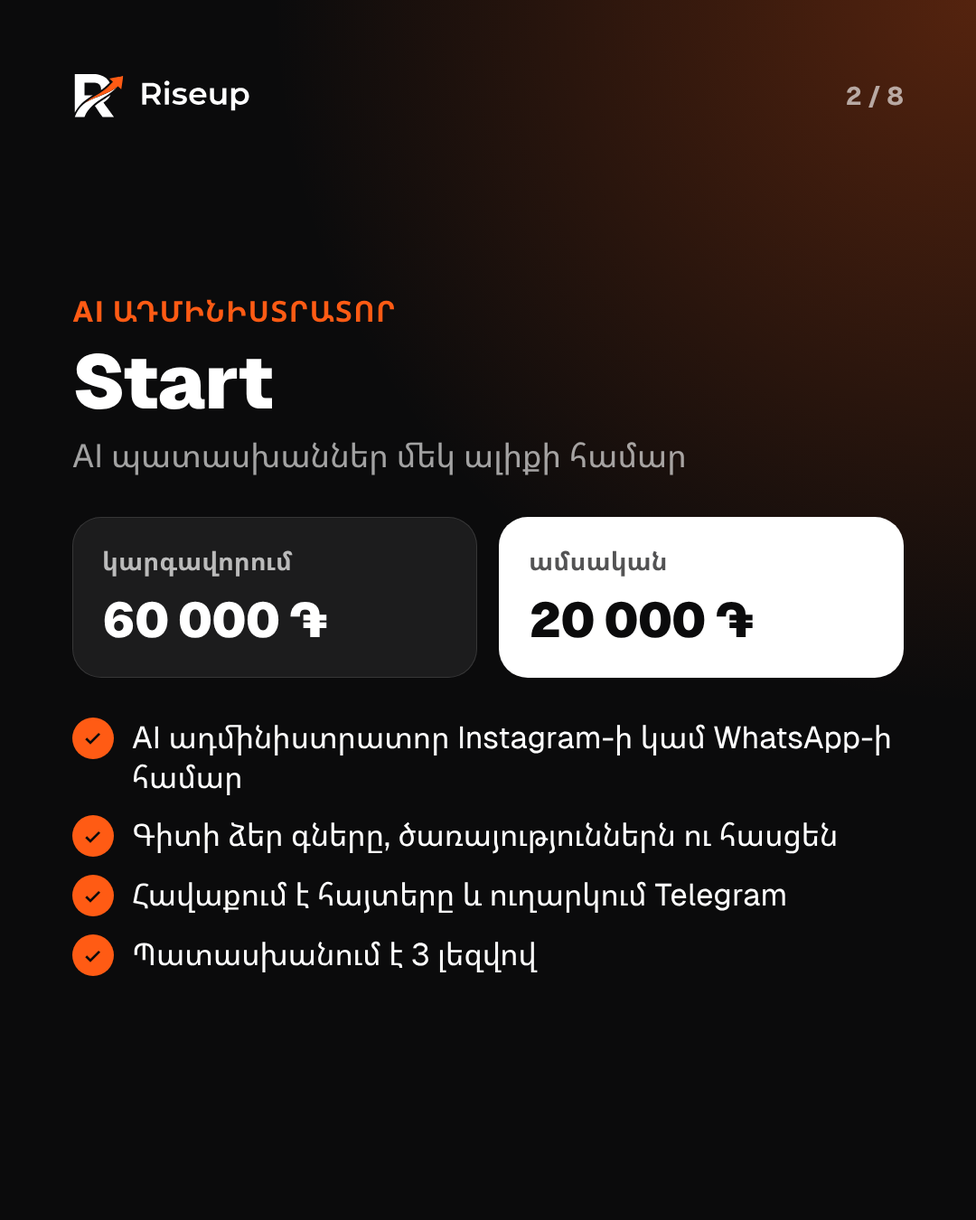
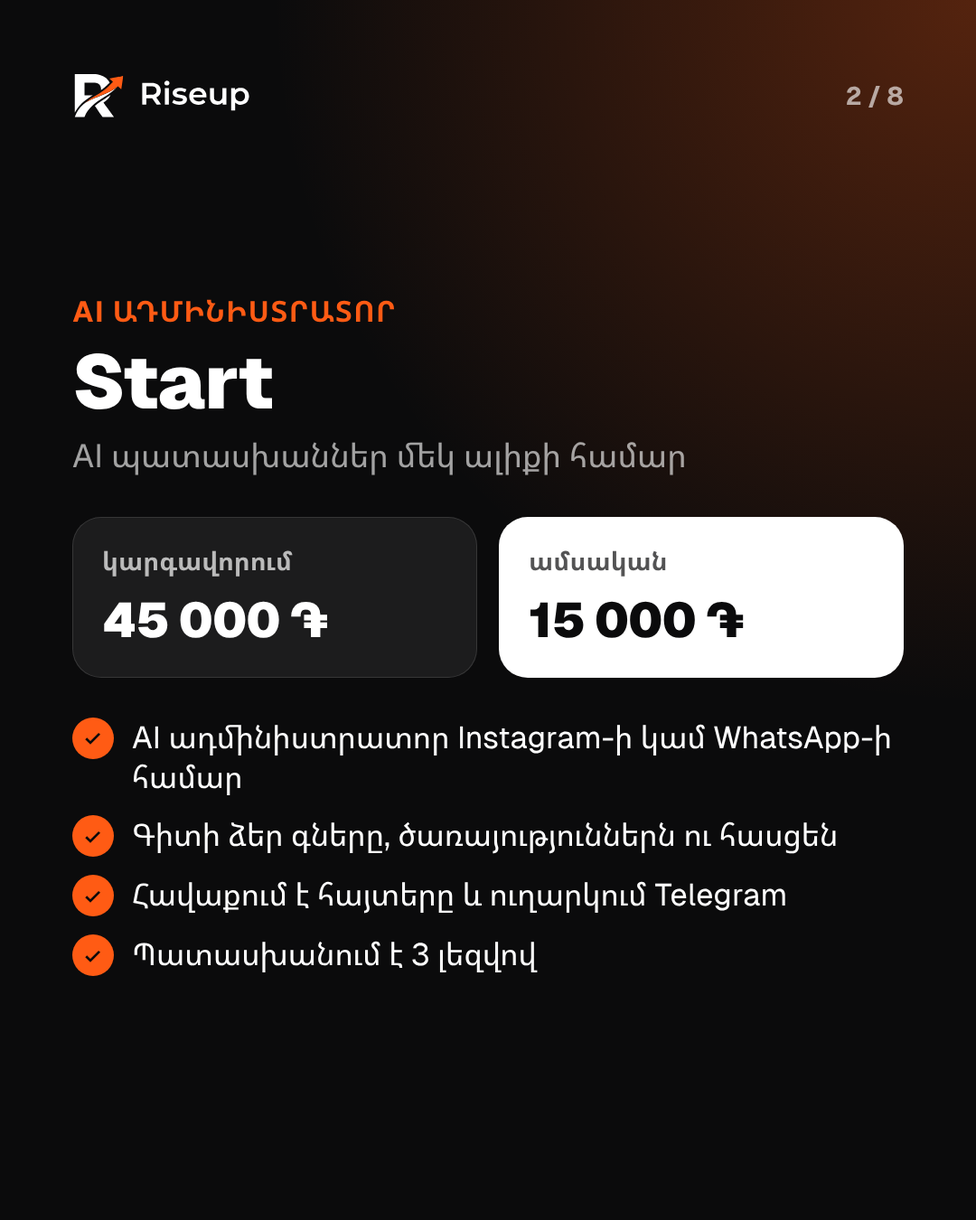
Lower prices, add online shop, premium 3D site and AI video plans
Also refresh highlight stories and the price carousel with the new
prices, and update the 60-day plan (outreach volume, surgery dates).

Claude-Session: https://claude.ai/code/session_015v1KKk4YzmLy5J99LSMaLs

Changed region(s): [[0.55, 0.4667, 0.7639, 0.5289], [0.0917, 0.4978, 0.275, 0.5289]]

diff --git a/reels/src/hl/Stills.tsx b/reels/src/hl/Stills.tsx
@@ -138,12 +138,12 @@ type Slide =
 
 export const SLIDES: Slide[] = [
   { kind: "cover" },
-  { kind: "plan", group: "AI ադմինիստրատոր", name: "Start", for: "AI պատասխաններ մեկ ալիքի համար", setup: "60 000 ֏", monthly: "20 000 ֏", features: ["AI ադմինիստրատոր Instagram-ի կամ WhatsApp-ի համար", "Գիտի ձեր գները, ծառայություններն ու հասցեն", "Հավաքում է հայտերը և ուղարկում Telegram", "Պատասխանում է 3 լեզվով"] },
-  { kind: "plan", group: "AI ադմինիստրատոր", name: "Pro", for: "Պատասխաններ + գրանցում, բոլոր ալիքները", setup: "120 000 ֏", monthly: "35 000 ֏", popular: true, features: ["Start-ի ամեն ինչը՝ Instagram-ի, WhatsApp-ի և Telegram-ի համար", "Առցանց գրանցման օրացույց", "Հիշեցումներ այցից առաջ", "Կարծիքի խնդրանքներ և օրվա հաշվետվություն"] },
-  { kind: "plan", group: "Պատվերներ", name: "Instagram խանութ", for: "Instagram-ով վաճառող խանութների համար", setup: "90 000 ֏-ից", monthly: "25 000 ֏", features: ["AI պատասխաններ ապրանքների և մնացորդի մասին", "Պատվերների ընդունում չատում", "Պատվերների վահանակ՝ կարգավիճակներով", "Առաքիչ Telegram-ում և օրվա հաշվետվություն"] },
-  { kind: "plan", group: "Անշարժ գույք", name: "Գործակալություն", for: "Գործակալությունների և կառուցապատողների համար", setup: "180 000 ֏-ից", monthly: "35 000 ֏", features: ["Բոլոր հայտերը մեկ ցուցակում", "AI-ի առաջին պատասխան գնորդներին", "Գնորդների և գույքի համադրում", "Հետզանգի հիշեցումներ"] },
-  { kind: "plan", group: "Մարքեթինգ", name: "Google և կարծիքներ", for: "Լինել տեսանելի քարտեզում", setup: "0 ֏", monthly: "25 000 ֏", features: ["Google Maps պրոֆիլի կարգավորում և խնամք", "Ավտոմատ կարծիքի խնդրանքներ", "Պատասխան յուրաքանչյուր կարծիքի", "Google + Instagram փաթեթ՝ 60 000 ֏/ամիս"] },
-  { kind: "plan", group: "Կայքեր", name: "Մեկ էջանոց կայք", for: "Արագ մեկնարկ առցանց", setup: "120 000 ֏-ից", monthly: "10 000 ֏", features: ["Մեկ էջ 3 լեզվով", "Կոնտակտային ձև և WhatsApp կոճակ", "Հոսթինգի և դոմենի կարգավորում", "Ընկերության կայք՝ 210 000 ֏-ից + 18 000 ֏/ամիս"] },
+  { kind: "plan", group: "AI ադմինիստրատոր", name: "Start", for: "AI պատասխաններ մեկ ալիքի համար", setup: "45 000 ֏", monthly: "15 000 ֏", features: ["AI ադմինիստրատոր Instagram-ի կամ WhatsApp-ի համար", "Գիտի ձեր գները, ծառայություններն ու հասցեն", "Հավաքում է հայտերը և ուղարկում Telegram", "Պատասխանում է 3 լեզվով"] },
+  { kind: "plan", group: "AI ադմինիստրատոր", name: "Pro", for: "Պատասխաններ + գրանցում, բոլոր ալիքները", setup: "90 000 ֏", monthly: "25 000 ֏", popular: true, features: ["Start-ի ամեն ինչը՝ Instagram-ի, WhatsApp-ի և Telegram-ի համար", "Առցանց գրանցման օրացույց", "Հիշեցումներ այցից առաջ", "Կարծիքի խնդրանքներ և օրվա հաշվետվություն"] },
+  { kind: "plan", group: "Պատվերներ", name: "Instagram խանութ", for: "Instagram-ով վաճառող խանութների համար", setup: "70 000 ֏-ից", monthly: "20 000 ֏", features: ["AI պատասխաններ ապրանքների և մնացորդի մասին", "Պատվերների ընդունում չատում", "Պատվերների վահանակ՝ կարգավիճակներով", "Առաքիչ Telegram-ում և օրվա հաշվետվություն"] },
+  { kind: "plan", group: "Անշարժ գույք", name: "Գործակալություն", for: "Գործակալությունների և կառուցապատողների համար", setup: "140 000 ֏-ից", monthly: "25 000 ֏", features: ["Բոլոր հայտերը մեկ ցուցակում", "AI-ի առաջին պատասխան գնորդներին", "Գնորդների և գույքի համադրում", "Հետզանգի հիշեցումներ"] },
+  { kind: "plan", group: "Մարքեթինգ", name: "Google և կարծիքներ", for: "Լինել տեսանելի քարտեզում", setup: "0 ֏", monthly: "20 000 ֏", features: ["Google Maps պրոֆիլի կարգավորում և խնամք", "Ավտոմատ կարծիքի խնդրանքներ", "Պատասխան յուրաքանչյուր կարծիքի", "Google + Instagram փաթեթ՝ 45 000 ֏/ամիս"] },
+  { kind: "plan", group: "Կայքեր", name: "Մեկ էջանոց կայք", for: "Արագ մեկնարկ առցանց", setup: "80 000 ֏-ից", monthly: "8 000 ֏", features: ["Մեկ էջ 3 լեզվով", "Կոնտակտային ձև և WhatsApp կոճակ", "Հոսթինգի և դոմենի կարգավորում", "Ընկերության կայք՝ 150 000 ֏-ից + 12 000 ֏/ամիս"] },
   { kind: "terms" },
 ];
 

diff --git a/reels/src/hl/data.ts b/reels/src/hl/data.ts
@@ -75,7 +75,7 @@ export const HIGHLIGHTS: Highlight[] = [
         body: "Պատասխանում է 24/7, գրանցում է, հիշեցնում այցի մասին։",
         ru: "AI-администратор 24/7",
         bg: "salon",
-        price: "60 000 ֏-ից",
+        price: "45 000 ֏-ից",
         cta: true,
         visual: {
           kind: "chat",
@@ -87,10 +87,10 @@ export const HIGHLIGHTS: Highlight[] = [
           ],
         },
       },
-      { id: "services-2", title: "Պատվերներ", body: "Instagram խանութի պատվերները՝ մեկ վահանակում։", ru: "Заказы из Instagram в одной панели", price: "90 000 ֏-ից", cta: true, visual: { kind: "orders" } },
-      { id: "services-3", title: "Անշարժ գույք", body: "Բոլոր հայտերը մեկ տեղում, ոչ մի կորած գնորդ։", ru: "Все заявки в одном месте", price: "180 000 ֏-ից", cta: true, visual: { kind: "leads" } },
-      { id: "services-4", title: "Մարքեթինգ", body: "Google Maps, կարծիքներ, Instagram կոնտենտ։", ru: "Google Maps, отзывы, Instagram", price: "25 000 ֏/ամիս-ից", cta: true, visual: { kind: "stars" } },
-      { id: "services-5", title: "Կայքեր", body: "Արագ կայք 3 լեզվով։", ru: "Сайты на 3 языках", price: "120 000 ֏-ից", cta: true, visual: { kind: "site" } },
+      { id: "services-2", title: "Պատվերներ", body: "Instagram խանութի պատվերները՝ մեկ վահանակում։", ru: "Заказы из Instagram в одной панели", price: "70 000 ֏-ից", cta: true, visual: { kind: "orders" } },
+      { id: "services-3", title: "Անշարժ գույք", body: "Բոլոր հայտերը մեկ տեղում, ոչ մի կորած գնորդ։", ru: "Все заявки в одном месте", price: "140 000 ֏-ից", cta: true, visual: { kind: "leads" } },
+      { id: "services-4", title: "Մարքեթինգ", body: "Google Maps, կարծիքներ, Instagram կոնտենտ։", ru: "Google Maps, отзывы, Instagram", price: "20 000 ֏/ամիս-ից", cta: true, visual: { kind: "stars" } },
+      { id: "services-5", title: "Կայքեր", body: "Արագ կայք 3 լեզվով։", ru: "Сайты на 3 языках", price: "80 000 ֏-ից", cta: true, visual: { kind: "site" } },
     ],
   },
   {
@@ -105,8 +105,8 @@ export const HIGHLIGHTS: Highlight[] = [
         visual: {
           kind: "prices",
           cards: [
-            { name: "Start · մեկ ալիք", setup: "60 000 ֏", monthly: "20 000 ֏ / ամիս" },
-            { name: "Pro · բոլոր ալիքները + գրանցում", setup: "120 000 ֏", monthly: "35 000 ֏ / ամիս", tag: "Ամենաշատ ընտրվողը" },
+            { name: "Start · մեկ ալիք", setup: "45 000 ֏", monthly: "15 000 ֏ / ամիս" },
+            { name: "Pro · բոլոր ալիքները + գրանցում", setup: "90 000 ֏", monthly: "25 000 ֏ / ամիս", tag: "Ամենաշատ ընտրվողը" },
           ],
         },
       },
@@ -117,8 +117,8 @@ export const HIGHLIGHTS: Highlight[] = [
         visual: {
           kind: "prices",
           cards: [
-            { name: "Պատվերներ", setup: "90 000 ֏-ից", monthly: "25 000 ֏ / ամիս" },
-            { name: "Անշարժ գույք", setup: "180 000 ֏-ից", monthly: "35 000 ֏ / ամիս" },
+            { name: "Պատվերներ", setup: "70 000 ֏-ից", monthly: "20 000 ֏ / ամիս" },
+            { name: "Անշարժ գույք", setup: "140 000 ֏-ից", monthly: "25 000 ֏ / ամիս" },
           ],
         },
       },
@@ -130,8 +130,8 @@ export const HIGHLIGHTS: Highlight[] = [
         visual: {
           kind: "prices",
           cards: [
-            { name: "Google և կարծիքներ", setup: "25 000 ֏ / ամիս" },
-            { name: "Google + Instagram", setup: "60 000 ֏ / ամիս" },
+            { name: "Google և կարծիքներ", setup: "20 000 ֏ / ամիս" },
+            { name: "Google + Instagram", setup: "45 000 ֏ / ամիս" },
           ],
         },
       },
@@ -142,8 +142,8 @@ export const HIGHLIGHTS: Highlight[] = [
         visual: {
           kind: "prices",
           cards: [
-            { name: "Մեկ էջանոց կայք", setup: "120 000 ֏-ից", monthly: "10 000 ֏ / ամիս" },
-            { name: "Ընկերության կայք", setup: "210 000 ֏-ից", monthly: "18 000 ֏ / ամիս" },
+            { name: "Մեկ էջանոց կայք", setup: "80 000 ֏-ից", monthly: "8 000 ֏ / ամիս" },
+            { name: "Ընկերության կայք", setup: "150 000 ֏-ից", monthly: "12 000 ֏ / ամիս" },
           ],
         },
       },

diff --git a/src/config/pricing.ts b/src/config/pricing.ts
@@ -7,7 +7,8 @@ import type { CapabilityId } from "./navigation";
  * lists are translated in src/locales/*.json → pricing.plans.<id>.
  *
  *   setup    one-time payment for building and launching (0 = none)
- *   monthly  monthly fee for hosting, AI usage, support and changes (0 = none)
+ *   monthly  monthly fee for hosting, AI usage, support and changes (0 = none;
+ *            with setup > 0 this is a one-time job, e.g. a video)
  *   from     true shows "from" before the price (final price depends on scope)
  *   popular  highlights the plan as the recommended one
  */
@@ -27,21 +28,27 @@ export const planOrder = [
   "real-estate",
   "marketing-local",
   "marketing-full",
+  "ai-video",
   "landing",
   "website",
+  "shop",
+  "premium-3d",
 ] as const;
 
 export type PlanId = (typeof planOrder)[number];
 
 export const plans: Record<PlanId, Plan> = {
-  "admin-start": { id: "admin-start", product: "ai-admin", setup: 60_000, monthly: 20_000 },
-  "admin-pro": { id: "admin-pro", product: "ai-admin", setup: 120_000, monthly: 35_000, popular: true },
-  orders: { id: "orders", product: "orders", setup: 90_000, monthly: 25_000, from: true },
-  "real-estate": { id: "real-estate", product: "real-estate", setup: 180_000, monthly: 35_000, from: true },
-  "marketing-local": { id: "marketing-local", product: "marketing", setup: 0, monthly: 25_000 },
-  "marketing-full": { id: "marketing-full", product: "marketing", setup: 0, monthly: 60_000 },
-  landing: { id: "landing", product: "websites", setup: 120_000, monthly: 10_000, from: true },
-  website: { id: "website", product: "websites", setup: 210_000, monthly: 18_000, from: true },
+  "admin-start": { id: "admin-start", product: "ai-admin", setup: 45_000, monthly: 15_000 },
+  "admin-pro": { id: "admin-pro", product: "ai-admin", setup: 90_000, monthly: 25_000, popular: true },
+  orders: { id: "orders", product: "orders", setup: 70_000, monthly: 20_000, from: true },
+  "real-estate": { id: "real-estate", product: "real-estate", setup: 140_000, monthly: 25_000, from: true },
+  "marketing-local": { id: "marketing-local", product: "marketing", setup: 0, monthly: 20_000 },
+  "marketing-full": { id: "marketing-full", product: "marketing", setup: 0, monthly: 45_000 },
+  "ai-video": { id: "ai-video", product: "marketing", setup: 25_000, monthly: 0, from: true },
+  landing: { id: "landing", product: "websites", setup: 80_000, monthly: 8_000, from: true },
+  website: { id: "website", product: "websites", setup: 150_000, monthly: 12_000, from: true },
+  shop: { id: "shop", product: "websites", setup: 150_000, monthly: 12_000, from: true },
+  "premium-3d": { id: "premium-3d", product: "websites", setup: 250_000, monthly: 15_000, from: true },
 };
 
 export function plansFor(product: CapabilityId): Plan[] {

diff --git a/src/components/sections/PricingPlans.tsx b/src/components/sections/PricingPlans.tsx
@@ -34,7 +34,7 @@ export function PlanCard({ plan, locale, dict }: { plan: Plan; locale: Locale; d
           <>
             <p className="text-heading leading-none font-medium tabular-nums">{price(plan.setup)}</p>
             <p className={cn("mt-2 text-small", plan.popular ? "text-bg/70" : "text-fg-mute")}>
-              {t.setup} · + {formatAmd(plan.monthly)} {t.perMonth}
+              {plan.monthly > 0 ? `${t.setup} · + ${formatAmd(plan.monthly)} ${t.perMonth}` : t.oneTime}
             </p>
           </>
         ) : (

diff --git a/docs/plan-60-days.md b/docs/plan-60-days.md
@@ -67,32 +67,38 @@
 4. **AI գովազդային տեսանյութեր.** Ռեալիստիկ գովազդներ AI-ով։
 5. **Բիզնես ավտոմատացումներ (n8n).** Հաշվետվություններ, Telegram ծանուցումներ, տվյալների փոխանցում, անշարժ գույքի հայտարարությունների ավտոմատ թարմացում։
 
-### 2.3 Գներ
+### 2.3 Գներ (թարմացված, նոյեմբերի 8)
 
-Սկզբում ցածր գներ՝ կեյսերի համար։ Առաջին 3 հաճախորդից հետո բարձրացնում ենք 30–50%-ով։
+Գները իջեցրել ենք։ Կայքում դրանք արդեն փոխված են (`src/config/pricing.ts`)։ Առաջին 3–5 հաճախորդից հետո կբարձրացնենք 30%-ով։
 
 **Տեղական (֏)**
 
-| Ծառայություն | Մեկնարկային գին | 3 հաճախորդից հետո |
+| Ծառայություն | Կարգավորում | Ամսական |
 |---|---|---|
-| Ռեստորանի պատվերների համակարգ (կայք + dashboard + տպիչ) | 250 000 + 20 000/ամիս | 400 000+ |
-| Առցանց խանութ (կատալոգ, զամբյուղ, պատվերների վահանակ) | 220 000 + 15 000/ամիս | 350 000+ |
-| Պրեմիում 3D scroll կայք | 350 000-ից | 550 000+ |
-| AI գովազդային տեսանյութ (15–30 վրկ) | 70 000 / 1 հատ, 180 000 / 3 հատ | 120 000 / 1 հատ |
-| Բիզնես ավտոմատացում (n8n) | 80 000–250 000 | ըստ բարդության |
-| AI ադմինիստրատոր, landing, մարքեթինգ | ինչպես կայքում | — |
+| AI ադմինիստրատոր Start | 45 000 | 15 000 |
+| AI ադմինիստրատոր Pro | 90 000 | 25 000 |
+| Պատվերների համակարգ (խանութ / ռեստորան, ինչպես hosdog.am) | 70 000-ից | 20 000 |
+| Անշարժ գույք | 140 000-ից | 25 000 |
+| Google և կարծիքներ | — | 20 000 |
+| Google + Instagram | — | 45 000 |
+| **AI գովազդային տեսանյութ** | **25 000-ից / 3 հատ՝ 60 000** | — |
+| Մեկ էջանոց կայք | 80 000-ից | 8 000 |
+| Ընկերության կայք | 150 000-ից | 12 000 |
+| Առցանց խանութ | 150 000-ից | 12 000 |
+| Պրեմիում 3D կայք | 250 000-ից | 15 000 |
+| Ավտոմատացում (n8n) | 40 000–150 000 | ըստ պայմանավորվածության |
 
-**Միջազգային ($, Upwork և այլն)**
+**Միջազգային ($)**
 
-| Ծառայություն | Առաջին 3–5 աշխատանքը (կարծիքների համար) | Հետո |
+| Ծառայություն | Առաջին 3–5 աշխատանքը | Հետո |
 |---|---|---|
-| n8n / Make ավտոմատացում | $150–400 | $500–2 000 |
-| AI ադմինիստրատոր (ManyChat + n8n + AI) | $400 + $59/ամիս | $900 + $99/ամիս |
-| Landing page | $300 | $600–1 000 |
-| 3D scroll կայք | $900 | $1 500–3 500 |
-| AI գովազդային տեսանյութ | $120 | $250–500 |
+| n8n / Make ավտոմատացում | $100–300 | $400–1 500 |
+| AI ադմինիստրատոր | $300 + $49/ամիս | $700 + $89/ամիս |
+| Landing page | $250 | $500–900 |
+| 3D scroll կայք | $600 | $1 200–3 000 |
+| AI գովազդային տեսանյութ | $60–80 | $150–400 |
 
-> **Կարևոր AI տեսանյութերի համար.** Higgsfield-ի փորձնական շրջանն ավարտվում է նոյեմբերի 10-ին, և ավտոմատ երկարացումն անջատված է։ Վճարովի փաթեթ գնեք միայն այն ժամանակ, երբ հաճախորդն արդեն վճարել է, և կրեդիտների ծախսը ներառեք գնի մեջ։ Մեկ 5 վայրկյանանոց 720p կադրն արժե 35 կրեդիտ, իսկ 20 վայրկյանանոց գովազդի համար պետք է 4–6 կադր և փորձեր։
+> **AI տեսանյութերի ծախսը.** Մինչև Higgsfield-ի փաթեթ գնելը հաշվեք 1 կրեդիտի գինը։ Մեկ 15 վայրկյանանոց գովազդը փորձերով ծախսում է մոտ 120–150 կրեդիտ 720p-ով, և 25 000 ֏-ը պետք է ծածկի այդ ծախսը։ Փաթեթը գնեք միայն առաջին վճարից հետո։
 
 ## 3. Թվերը. ինչպես հասնել $10 000-ի
 
@@ -116,7 +122,20 @@
 
 300–400 զանգը առանց արդյունքի ցույց է տալիս, որ ձայնով «սառը» առաջարկը չի աշխատում։ Նոր մոտեցումը **«ցույց տուր, հետո առաջարկիր»** է.
 
-### 4.1 «Արդեն պատրաստել ենք» մեթոդը (հիմնականը)
+### 4.0 Ծավալը. ավելի ագրեսիվ (թարմացված)
+
+Ամեն աշխատանքային օր **40+ շփում** 3 մակարդակով.
+
+| Մակարդակ | Ինչ | Քանակ/օր | Ով |
+|---|---|---|---|
+| 1. Անհատական DM | Կարճ հաղորդագրություն բիզնեսի անունով և մեկ կոնկրետ դիտարկումով («տեսա, որ պատվերներն ընդունում եք Direct-ով...») + 15 վրկ տեսանյութ մեր դեմոյից | 25 | Կինը |
+| 2. Զանգ | Նրանց, ովքեր կարդացել են DM-ը, + Google Maps-ի ցուցակից | 15 | Դուք |
+| 3. Անհատական դեմո | Միայն նրանց, ովքեր պատասխանել են կամ ասել «հետաքրքիր է» | 2–3 | Կինը |
+| 4. Այց | Շաբաթը 2 օր՝ 1 թաղամաս, 10–15 սրճարան/սրահ/խանութ, hosdog.am-ը հեռախոսով ցույց տալով | 10–15 | Դուք |
+
+Ամսական սա 800+ շփում է։ 2–3% փոխարկման դեպքում՝ 15–25 հաճախորդ։
+
+### 4.1 «Արդեն պատրաստել ենք» մեթոդը (տաք հաճախորդների համար)
 1. Ամեն օր ընտրեք **5 բիզնես** Instagram-ից կամ Google Maps-ից։ Նախընտրելի են նրանք, ովքեր չունեն կայք, դանդաղ են պատասխանում կամ պատվերներն ընդունում են Direct-ով։
 2. Կինը vibecoding-ով 1–2 ժամում պատրաստում է **դեմո կայք հենց այդ բիզնեսի համար**՝ իրենց լուսանկարներով, մենյուով և գներով։
 3. Ուղարկեք Direct-ով կամ WhatsApp-ով 30 վայրկյանանոց էկրանի տեսագրություն՝ ձեր ձայնով.
@@ -303,7 +322,10 @@
 
 ## 11. Ինչ է պետք ձեզնից
 
-1. Վիրահատությունների մոտավոր ամսաթվերը, որ դրանց շուրջ ծանրաբեռնվածությունը թեթևացնենք։
+1. ~~Վիրահատությունների ամսաթվերը~~. Աչքերի տեսողության շտկումը՝ ~2 շաբաթից (~նոյեմբերի 22), աճուկային ճողվածքը՝ ~1 ամսից (~դեկտեմբերի 8)։ **Պլանի ճշգրտում.**
+   - Ամենաինտենսիվ վաճառքը (այցեր, զանգեր) անել մինչև նոյեմբերի 22-ը։
+   - Ամեն վիրահատությունից առաջ նախօրոք պատրաստել 7–10 reel։
+   - Վերականգնման օրերին կինը վարում է DM-ները և Upwork-ը, դուք կատարում եք միայն ձեր բժշկի թույլատրած թեթև աշխատանք։
 2. Bistro-ի, անշարժ գույքի և ավտոմատացման նախագծերի հղումներ, սքրինշոթներ կամ տեսագրություններ, ինչպես նաև հաճախորդների թույլտվությունը կեյսերում օգտագործելու համար։
 3. Դոմենի ընտրությունը։
 4. Հաստատեք կամ փոխեք գները (բաժին 2.3)։
